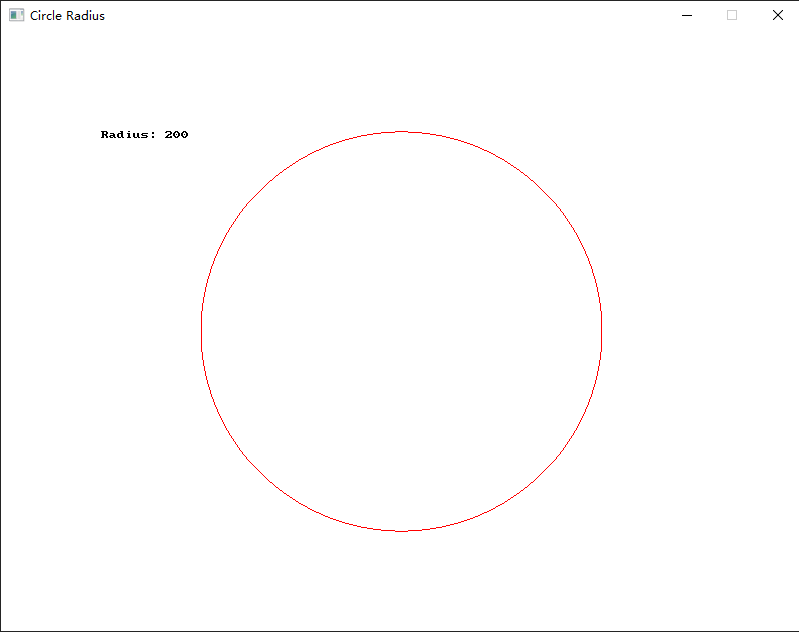
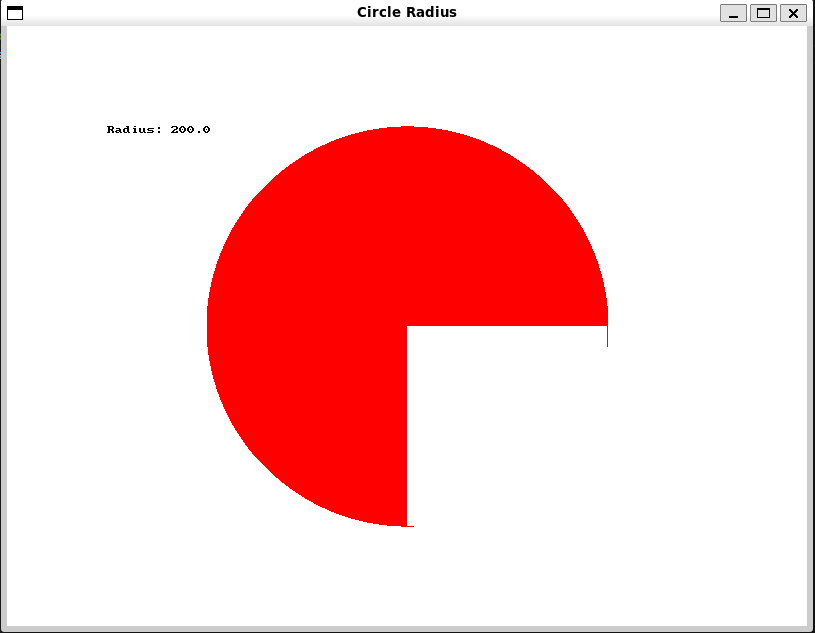
new idea

Changed region(s): [[0.2403, 0.1804, 0.7509, 0.8418], [0.0, 0.0, 1.0, 1.0], [0.1202, 0.1804, 0.2403, 0.2405]]

diff --git a/public/usage-examples/geometry/circle_radius/circle_radius-1-simple-oop.cs b/public/usage-examples/geometry/circle_radius/circle_radius-1-simple-oop.cs
@@ -19,8 +19,10 @@ namespace CircleRadius
         // Find the radius of the circle A
         double radius = SplashKit.CircleRadius(A);
 
-        //Draw the Circle
-        SplashKit.DrawCircle(Color.Red, x_position, y_position, radius);
+        //Fill the Circle
+        SplashKit.FillCircle(Color.Red, x_position, y_position, radius);
+        //Use the radius to create a rectangle to cut 1/4 of the circle
+        SplashKit.FillRectangle(Color.White, x_position, y_position , radius, radius);
     
         string text = "Radius: " + radius.ToString();
         // Print result on window

diff --git a/public/usage-examples/geometry/circle_radius/circle_radius-1-simple.cpp b/public/usage-examples/geometry/circle_radius/circle_radius-1-simple.cpp
@@ -15,8 +15,10 @@ int main()
     // Find the radius of the circle A
     double radius = circle_radius(A);
 
-    //Draw the Circle
-    draw_circle(COLOR_RED, x_position, y_position, radius);
+    //Fill the Circle
+    fill_circle(COLOR_RED, x_position, y_position, radius);
+    //Use the radius to create a rectangle to cut 1/4 of the circle
+    fill_rectangle(COLOR_WHITE, x_position, y_position , radius, radius);
     
     string text = "Radius: " + std::to_string(radius);
     //Print result on window

diff --git a/public/usage-examples/geometry/circle_radius/circle_radius-1-simple-top-level.cs b/public/usage-examples/geometry/circle_radius/circle_radius-1-simple-top-level.cs
@@ -15,7 +15,9 @@ Circle A = CircleAt(x_position, y_position, 200);
 double radius = CircleRadius(A);
 
 //Draw the Circle
-DrawCircle(Color.Red, x_position, y_position, radius);
+FillCircle(Color.Red, x_position, y_position, radius);
+//Use the radius to create a rectangle to cut 1/4 of the circle
+FillRectangle(Color.White, x_position, y_position , radius, radius);
     
 string text = "Radius: " + radius.ToString();
 // Print result on window

diff --git a/public/usage-examples/geometry/circle_radius/circle_radius-1-simple.py b/public/usage-examples/geometry/circle_radius/circle_radius-1-simple.py
@@ -14,7 +14,9 @@ A = circle_at(point_at(x_position, y_position), 200)
 radius = circle_radius(A)
 
 # Draw the circle
-draw_circle(color_red(), x_position, y_position, radius)
+fill_circle(color_red(), x_position, y_position, radius)
+#Use the radius to create a rectangle to cut 1/4 of the circle
+fill_rectangle(color_white(), x_position, y_position , radius, radius)
 
 text = "Radius: " + str(radius)
 # Print result on the window
